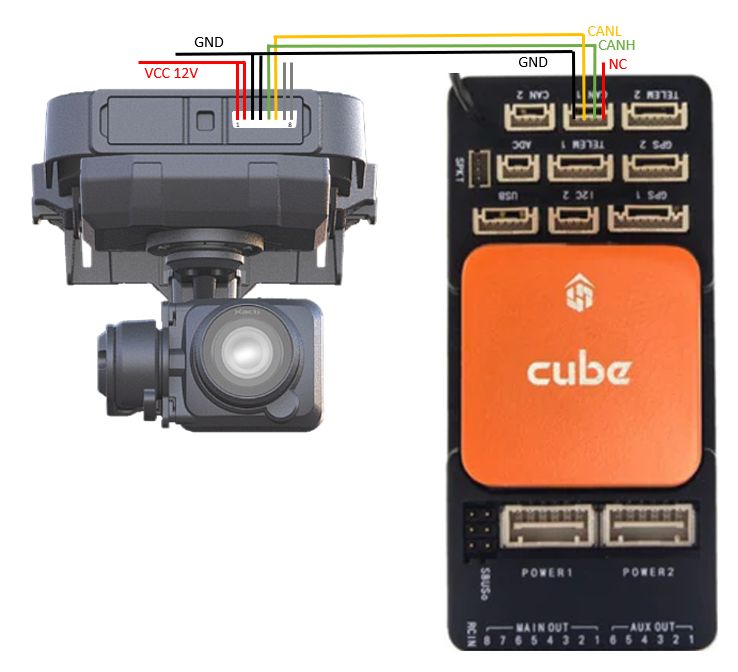
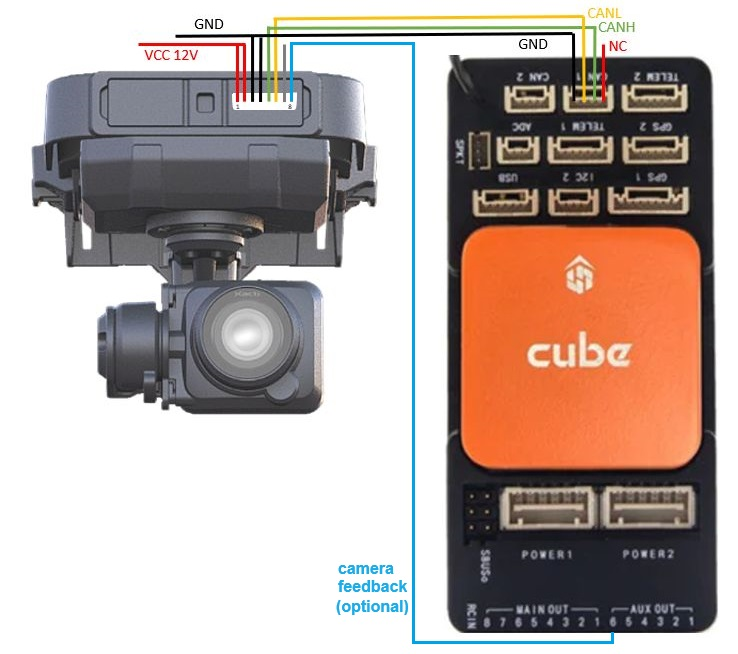
Common: Xacti gets camera feedback pin setup

diff --git a/common/source/docs/common-xacti-gimbal.rst b/common/source/docs/common-xacti-gimbal.rst
@@ -66,6 +66,12 @@ Connect to the autopilot with a ground station and set the following parameters 
   - :ref:`RC9_OPTION <RC9_OPTION>` = 168 ("Camera Manual Focus") to adjust focus in and out
   - :ref:`RC9_OPTION <RC9_OPTION>` = 169 ("Camera Auto Focus") to trigger auto focus
 
+- To improve the accuracy of the location EXIF data stored to each image taken, the camera trigger feedback can be enabled as follows
+
+   - Connect the CAM_SYNC wire (shown in blue on the image above) from the camera to one of the autopilot's AUX OUT signal pins (e.g. AUX OUT 6's bottom row pin)
+   - :ref:`CAM1_FEEDBAK_PIN <CAM1_FEEDBAK_PIN>` to 55 (AUX6) (if connected to AUX OUT 6)
+   - :ref:`SERVO14_FUNCTION <SERVO14_FUNCTION>` to -1 (GPIO) (if connected to AUX OUT 6)
+
 .. warning::
 
    When the autopilot first detects the Xacti gimbal the :ref:`MNT1_DEVID<MNT1_DEVID>` will be set to a unique number to identify the gimbal.  If the gimbal is moved to another CAN port it may be necessary to manually set :ref:`MNT1_DEVID<MNT1_DEVID>` to zero and reboot the autopilot in order for the gimbal to be found.
